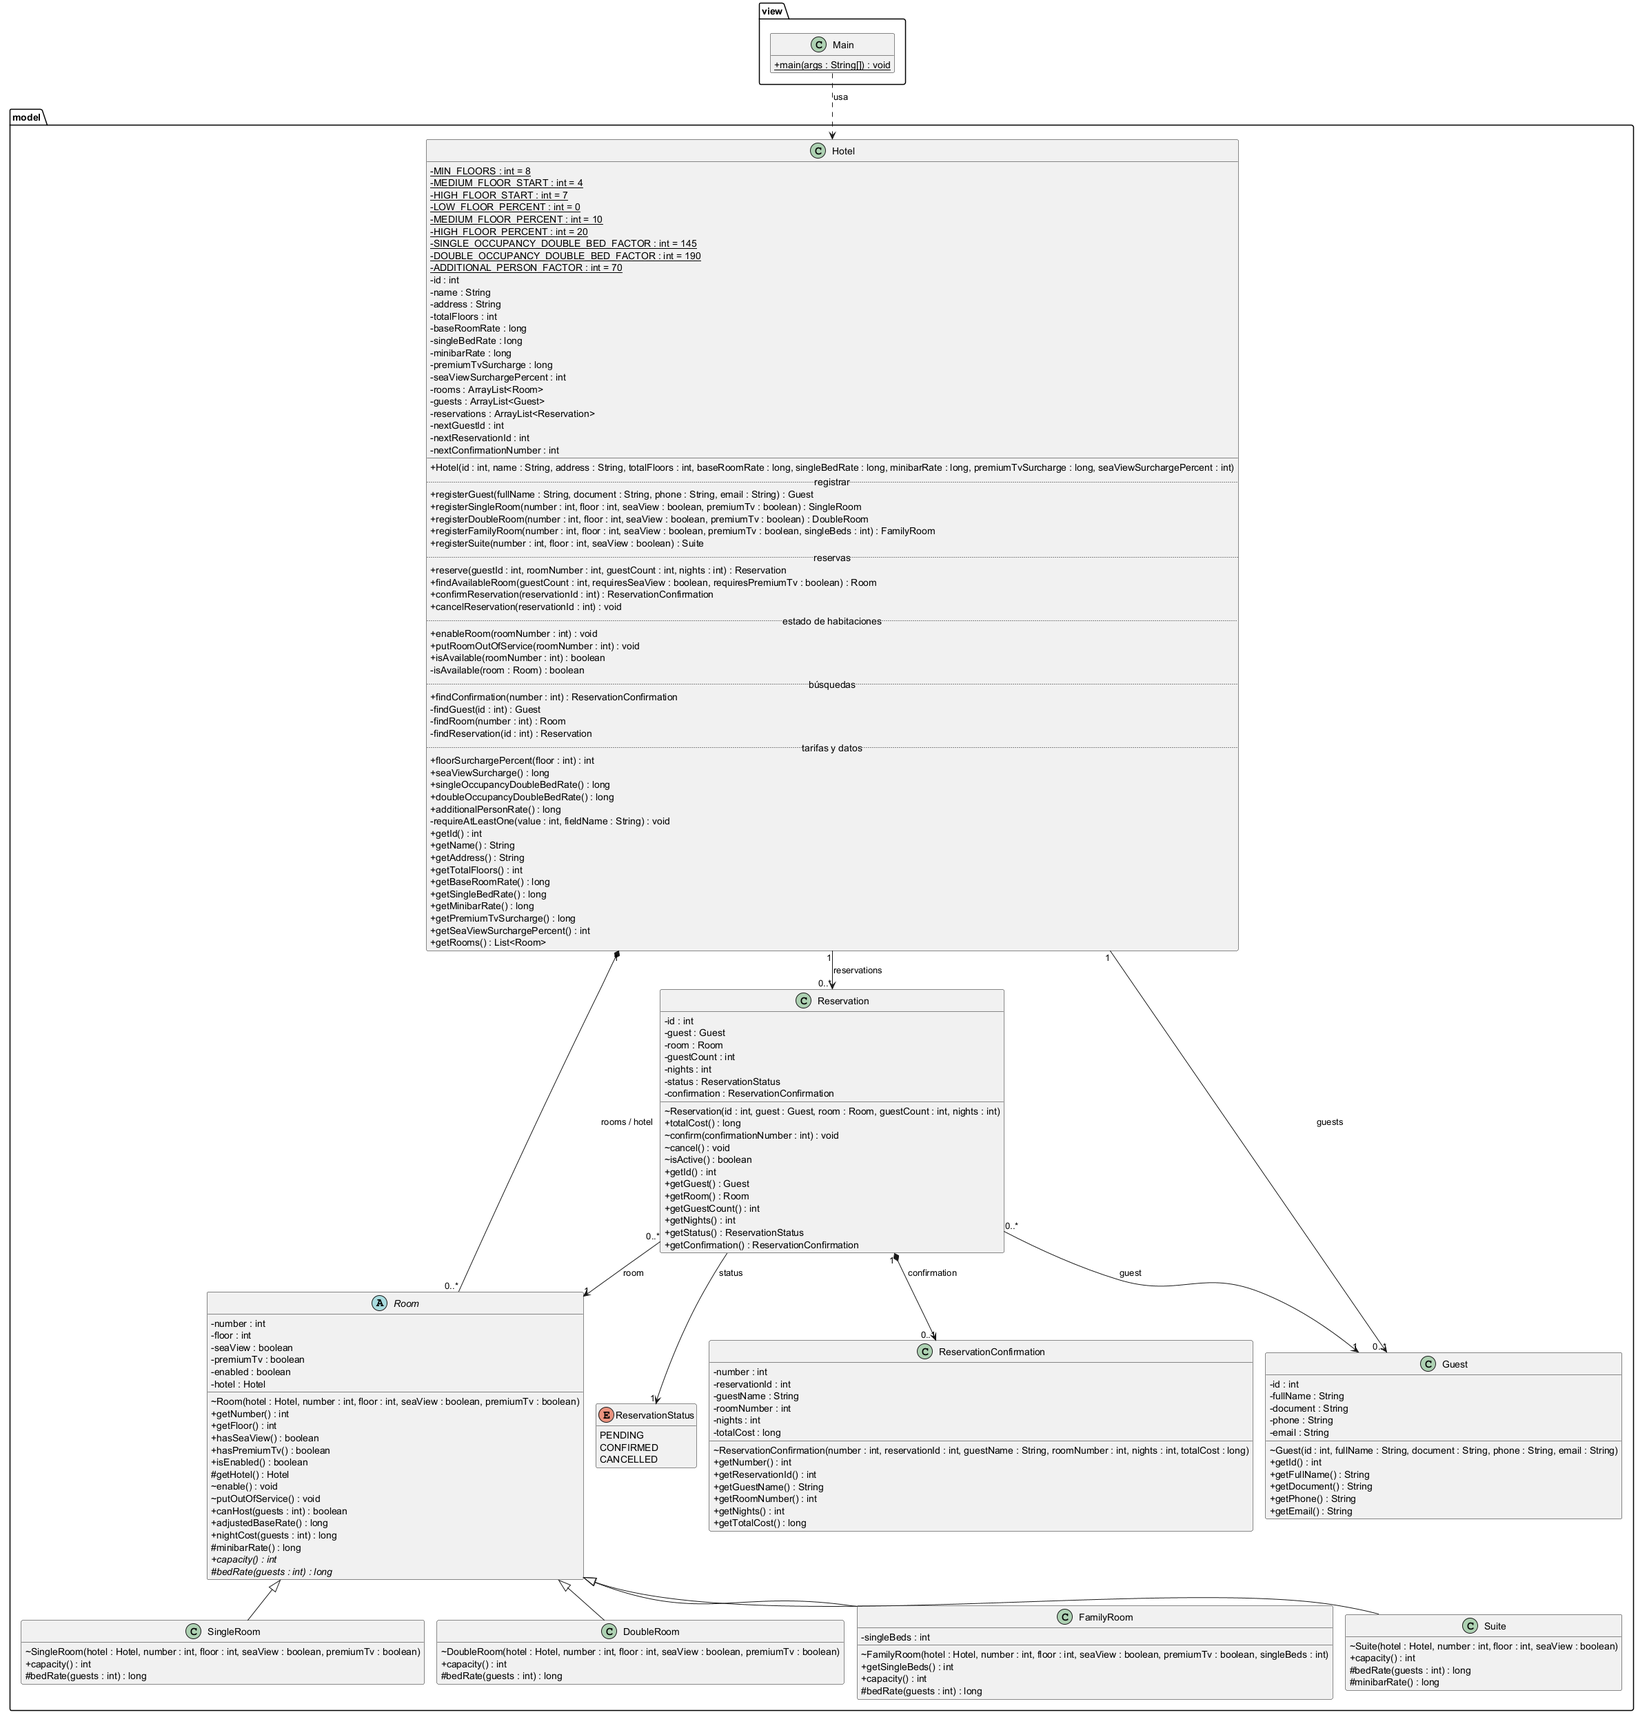
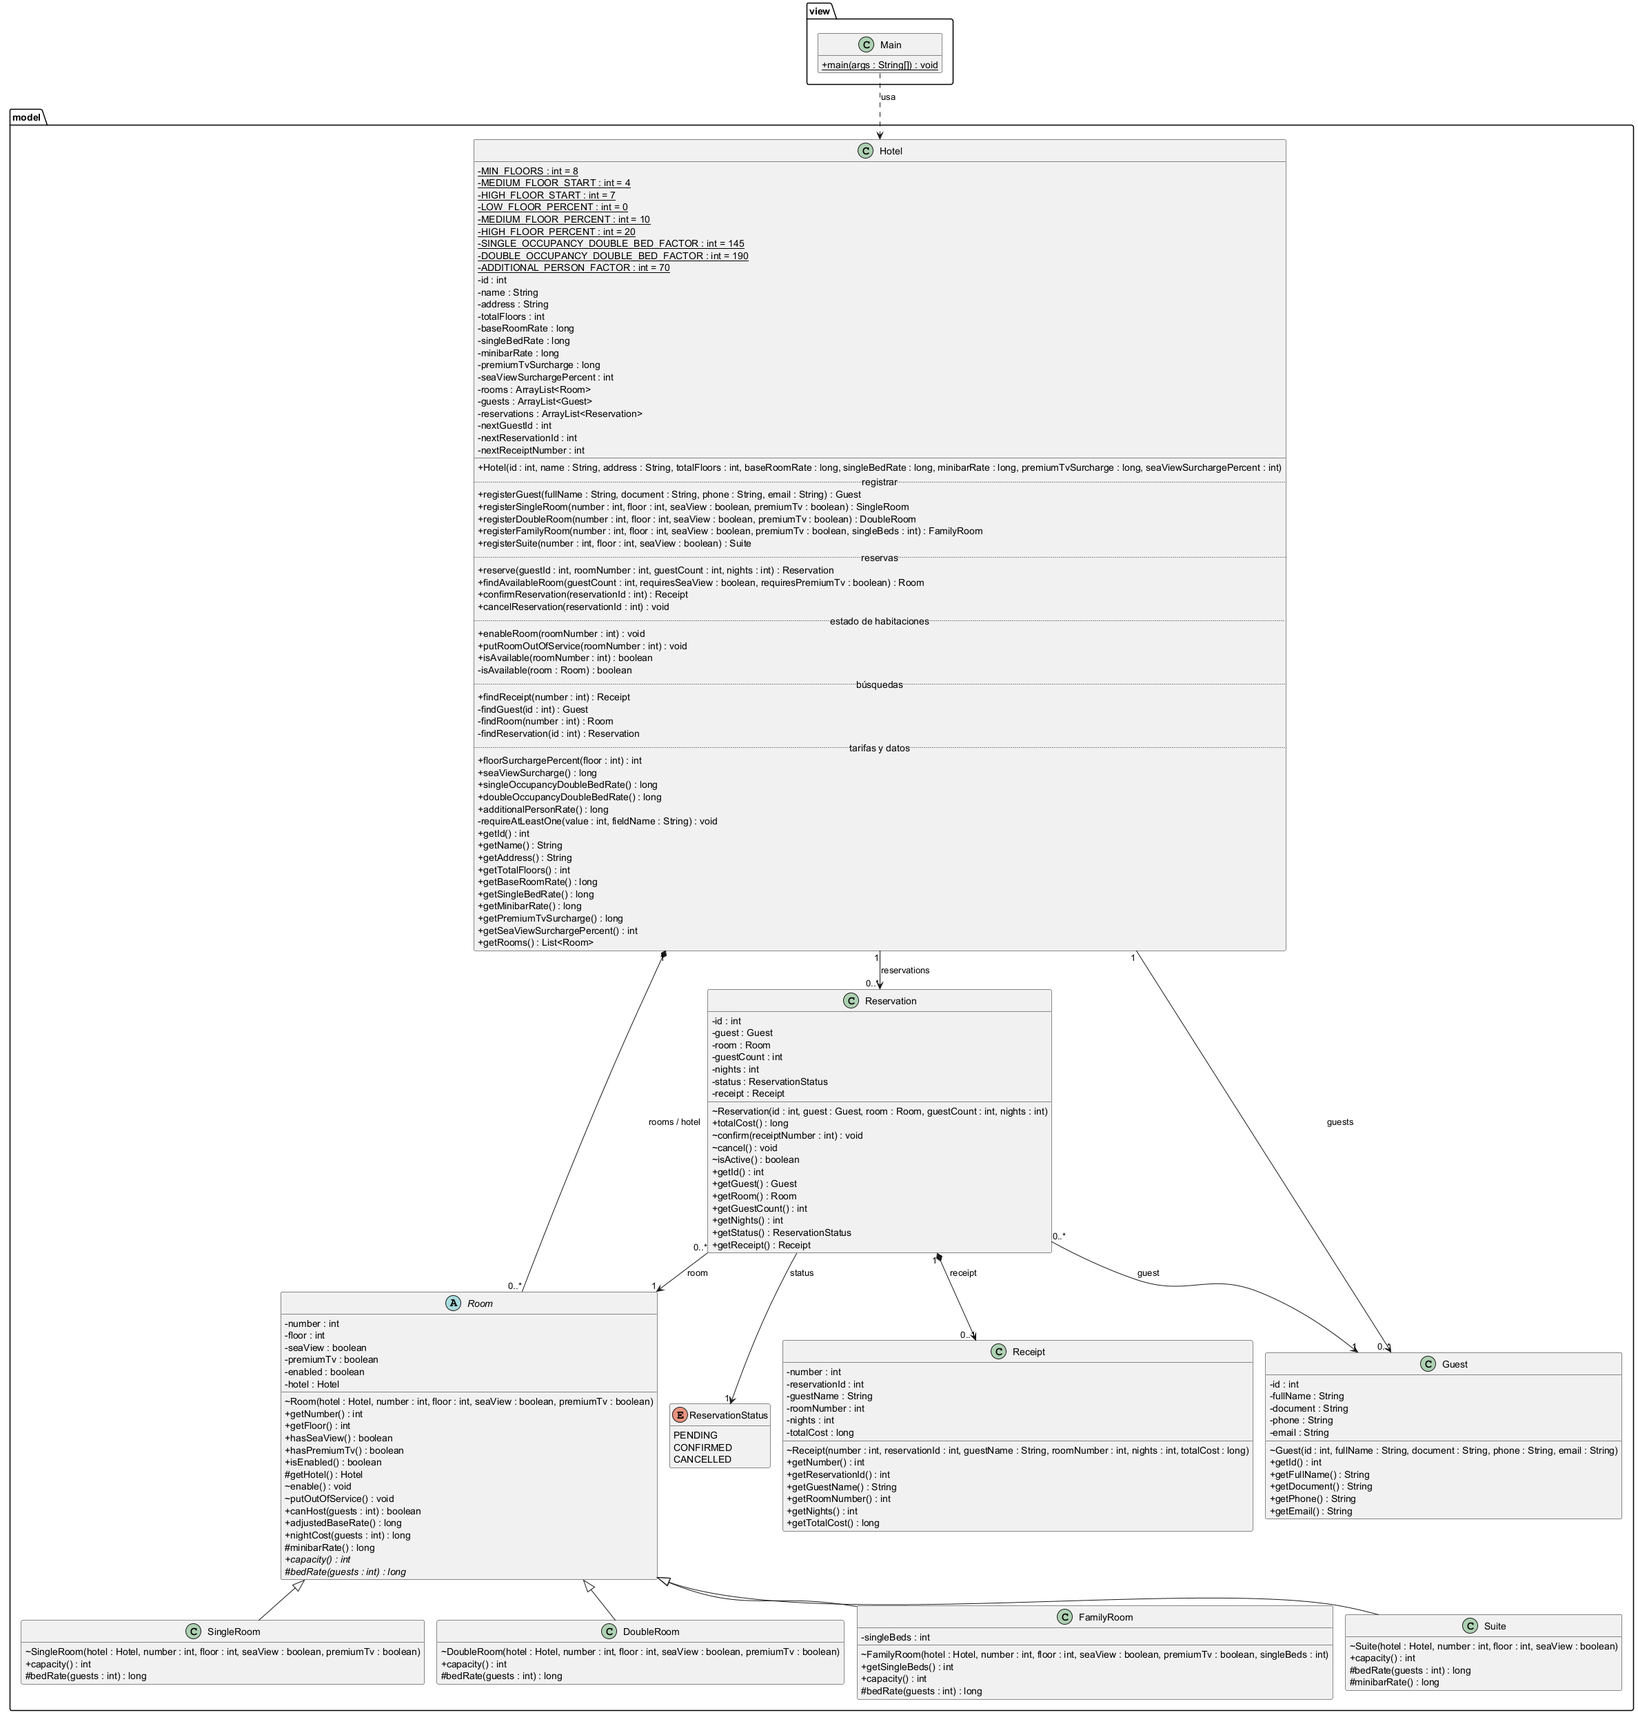
Renombrar ReservationConfirmation a Receipt
Por consejo del profesor, el comprobante se llama Receipt. También cambian
receipt, getReceipt, findReceipt, nextReceiptNumber y confirm(receiptNumber)
en el diagrama de clases y en las decisiones de diseño (D07 actualizada).

diff --git a/docs/DecisionesDiseno.md b/docs/DecisionesDiseno.md
@@ -10,7 +10,7 @@ Registro breve: decisión, regla del enunciado (R#) y justificación.
 - **D04. Hotel ↔ Room es bidireccional.** Lo exige R5 ("cada habitación conoce el hotel").
 - **D05. La disponibilidad de una habitación es derivada.** Habilitada + sin reserva pendiente o confirmada (R16). Cancelar no necesita "liberar" nada (R38).
 - **D06. Comprobante: el hotel lo busca recorriendo sus reservas.** Estrategia libre según R42. Se descarta una lista aparte para no guardar lo mismo dos veces (DRY).
-- **D07. Nombre ReservationConfirmation.** Coincide con el diccionario del enunciado.
+- **D07. Nombre Receipt.** El diccionario del enunciado traduce "comprobante de reserva" como *Reservation confirmation*, pero por consejo del profesor la clase se llama Receipt (recibo/comprobante). Los nombres relacionados siguen la clase: receipt, getReceipt, findReceipt, nextReceiptNumber, confirm(receiptNumber). confirmReservation conserva su nombre porque la acción sigue siendo confirmar la reserva.
 - **D08. Los números de habitación los decide el diseñador** (p. ej. 902 = piso 9, posición 02). El hotel verifica que no se repitan.
 
 ## Tipos de datos
@@ -24,8 +24,8 @@ Registro breve: decisión, regla del enunciado (R#) y justificación.
 - **D12. Guest: atributos `private` y fijos.** id (`int`); fullName, document, phone, email (`String`). Sin setters: ninguna regla pide modificarlos (YAGNI; Bloch, ítem 17). Es una simplificación de diseño, no una verdad del dominio. Documento y teléfono son texto: no se opera con ellos, un celular de 10 dígitos supera el máximo de `int`, un pasaporte puede tener letras y como número se perderían los ceros a la izquierda.
 - **D13. Guest lo crea solo Hotel** (GRASP Creator: tiene la lista y el contador del id). El constructor es de paquete (Bloch, ítem 15: minimizar la accesibilidad) y lanza excepción si algún texto está vacío. Hotel rechaza documentos repetidos (propuesta nuestra; el enunciado no lo exige).
 - **D14. Guest solo tiene getters públicos.** Son consultas que necesita Main desde otro paquete. No rompen el encapsulamiento: devuelven `String` (inmutable) e `int` (copia del valor), así que nadie puede modificar al huésped a través de ellos.
-- **D15. ReservationConfirmation guarda copias, no referencias.** number, reservationId, roomNumber, nights (`int`); guestName (`String`); totalCost (`long`). Todos `private` y fijos. Es una foto del momento de confirmar (Fowler, *Snapshot*): si algún día cambiaran las tarifas, el comprobante conserva lo que realmente se cobró, que es lo que necesita la contabilidad. roomNumber es `int` porque ninguno de los problemas de D12 aplica (no se desborda, no lleva letras ni ceros a la izquierda).
-- **D16. ReservationConfirmation la crea solo Reservation al confirmarse** (GRASP Creator: la contiene y tiene los datos). El constructor es de paquete y no valida: todos los datos vienen de objetos ya validados (Meyer, no redundancia; Bloch, ítem 49). Solo tiene getters públicos; Hotel usa getNumber para buscar comprobantes y Main usa el resto para mostrarlos.
+- **D15. Receipt guarda copias, no referencias.** number, reservationId, roomNumber, nights (`int`); guestName (`String`); totalCost (`long`). Todos `private` y fijos. Es una foto del momento de confirmar (Fowler, *Snapshot*): si algún día cambiaran las tarifas, el comprobante conserva lo que realmente se cobró, que es lo que necesita la contabilidad. roomNumber es `int` porque ninguno de los problemas de D12 aplica (no se desborda, no lleva letras ni ceros a la izquierda).
+- **D16. Receipt la crea solo Reservation al confirmarse** (GRASP Creator: la contiene y tiene los datos). El constructor es de paquete y no valida: todos los datos vienen de objetos ya validados (Meyer, no redundancia; Bloch, ítem 49). Solo tiene getters públicos; Hotel usa getNumber para buscar comprobantes y Main usa el resto para mostrarlos.
 - **D17. Room: atributos.** Fijos: number, floor (`int`), seaView, premiumTv (`boolean`) y hotel (`Hotel`, el lado de Room en la bidireccional D04). Cambiante: enabled (`boolean`), que se modifica con enable y putOutOfService en vez de un setter genérico (Evans, *Intention-Revealing Interfaces*; son los términos del diccionario del enunciado). No se guardan la capacidad (sale de las camas, así que es un método abstracto) ni la disponibilidad (D05). El piso no se deriva del número: "902 = piso 9" es una convención nuestra (D08), no una regla del dominio, y "el primer dígito" falla desde el piso 10. La TV premium es una característica fija de la habitación (la solicitud del huésped "no modifica las características"); la solicitud es solo un criterio de búsqueda de Hotel.
 - **D18. Creación de habitaciones.** Main crea el hotel y después le pide registrar cada habitación, una por una (Parte 2B: "cree y registre las habitaciones"). Hotel revisa que el número no esté repetido, crea la subclase pasándose a sí mismo y la agrega a su lista al final. El constructor de Room (de paquete) valida número > 0 (regla nuestra) y piso entre 1 y el total. Los constructores no se heredan: cada subclase llama primero al de Room y luego valida solo lo suyo (FamilyRoom: de 2 a 4 camas sencillas; Suite: uno de los dos pisos superiores, y le pasa premiumTv = verdadero a Room). Cada regla se valida en un solo lugar (Meyer, no redundancia; DRY).
 - **D19. Las listas del hotel son `ArrayList`** (habitaciones, huéspedes y reservas). El dominio no fija un máximo; un arreglo fijo obligaría a inventarlo y a validar "lleno".
@@ -42,17 +42,17 @@ Registro breve: decisión, regla del enunciado (R#) y justificación.
 
   **Polimorfismo:** nightCost hace siempre la misma pregunta (bedRate, minibarRate) y cada habitación la responde por sí misma; las cuatro subclases lo usan, aunque Single y Suite den siempre la misma respuesta. Que el resultado cambie con los huéspedes es otra cosa: solo Double y Family usan el parámetro; Single y Suite lo reciben igual porque al sobrescribir deben respetar la firma de Room. La pregunta "¿más de 6?" dentro de FamilyRoom no rompe la regla de no usar if por tipo: es sobre huéspedes, no sobre la subclase. bedRate nunca se llama si canHost respondió falso (D21): una familiar con 2 sencillas (capacidad 6) rechaza a 7 huéspedes antes de calcular precio. Las tarifas derivadas (cama doble, persona adicional) se piden al hotel mediante getHotel (D20).
 - **D23. Reservation.**
-  - **Atributos (`private`).** Fijos: id (`int`), guest (`Guest`), room (`Room`), guestCount (`int`), nights (`int`). Cambiantes: status (`ReservationStatus`, nace en PENDING, sin setter, D11) y confirmation (`ReservationConfirmation`, vacío hasta confirmar, se llena una sola vez, D16). No guarda el costo (D02) ni "ocupada" (D05).
+  - **Atributos (`private`).** Fijos: id (`int`), guest (`Guest`), room (`Room`), guestCount (`int`), nights (`int`). Cambiantes: status (`ReservationStatus`, nace en PENDING, sin setter, D11) y receipt (`Receipt`, vacío hasta confirmar, se llena una sola vez, D16). No guarda el costo (D02) ni "ocupada" (D05).
   - **Constructor (de paquete), lo crea solo Hotel** (Larman, *Creator*: guarda la lista y el contador del id). Antes de llamarlo, Hotel valida lo que necesita de sus listas y todos los números de la solicitud: huésped registrado, habitación habilitada y sin reserva activa, al menos 1 huésped (D21) y al menos 1 noche (decisión de Luis: *Fail Fast*, Shore 2004; todos los números de la solicitud se revisan en la misma puerta). El constructor solo verifica room.canHost(guestCount). Si algo falla, se lanza la excepción y Hotel no agrega nada a la lista ni avanza el contador. La garantía depende de que el constructor no sea público: nadie fuera del paquete puede crear una reserva sin pasar por Hotel. La revisión "habitación sin otra reserva activa" no puede ir en el constructor: la reserva no conoce a las demás (Larman, *Information Expert*).
   - **totalCost() → `long`, público.** Consulta: room.nightCost(guestCount) × nights. Vive aquí porque la reserva es la única que tiene juntos habitación, huéspedes y noches (*Information Expert*). Se puede llamar en cualquier momento después de creada, porque no cambia nada (Meyer, *Command-Query Separation*). Una reserva cancelada sigue respondiéndolo como dato histórico. Ojo: se recalcula con las tarifas actuales; da siempre lo mismo solo porque las tarifas son fijas (D01). Lo realmente cobrado se conserva en el comprobante (D15).
-  - **confirm(int confirmationNumber) → `void`, de paquete.** Solo si está PENDING; si está CONFIRMED o CANCELLED, excepción (un único comprobante; una cancelada no se confirma). Pasa a CONFIRMED y crea su comprobante con copias: número recibido, su id, nombre del huésped, número de habitación, noches y totalCost(). El número lo entrega Hotel con un contador de comprobantes que solo avanza si la confirmación sale bien (decisión de Luis: numeración consecutiva sin saltos, sin repetir el id de la reserva, mismo patrón que D13).
+  - **confirm(int receiptNumber) → `void`, de paquete.** Solo si está PENDING; si está CONFIRMED o CANCELLED, excepción (un único comprobante; una cancelada no se confirma). Pasa a CONFIRMED y crea su comprobante con copias: número recibido, su id, nombre del huésped, número de habitación, noches y totalCost(). El número lo entrega Hotel con un contador de comprobantes que solo avanza si la confirmación sale bien (decisión de Luis: numeración consecutiva sin saltos, sin repetir el id de la reserva, mismo patrón que D13).
   - **cancel() → `void`, de paquete.** Si está PENDING o CONFIRMED, pasa a CANCELLED; si ya está CANCELLED, excepción. No borra el comprobante (lo exige el enunciado) ni libera la habitación (D05: no hay nada que liberar).
   - **isActive() → `boolean`, de paquete.** Verdadero si está PENDING o CONFIRMED. Lo usa Hotel para deducir la disponibilidad: disponible = habilitada (dato de la habitación) Y sin reservas activas (dato que solo Hotel puede reunir).
-  - **Getters públicos:** getId, getGuest, getRoom, getGuestCount, getNights, getStatus, getConfirmation (vacío si nunca se confirmó). Hotel usa getConfirmation para buscar comprobantes por número (D06); Main usa el resto para mostrar.
+  - **Getters públicos:** getId, getGuest, getRoom, getGuestCount, getNights, getStatus, getReceipt (vacío si nunca se confirmó). Hotel usa getReceipt para buscar comprobantes por número (D06); Main usa el resto para mostrar.
   - **Main siempre pasa por Hotel** para reservar, confirmar y cancelar (Larman, *Controller*). Las transiciones de estado las controla la reserva, no Hotel (D11).
 - **D24. Hotel: atributos (`private`).**
   - **Fijos.** Identidad: id (`int`), name, address (`String`), totalFloors (`int`, ≥ 8). Tarifas (`long`, D09): baseRoomRate, singleBedRate, minibarRate (> 0, enunciado sección 1), premiumTvSurcharge (> 0, A1); seaViewSurchargePercent (`int`, 30 = 30 %, > 0, A1).
-  - **Cambiantes.** Listas (`ArrayList`, D19): rooms, guests, reservations. Contadores (`int`), que avanzan solo si la creación sale bien: nextGuestId (D13), nextReservationId y nextConfirmationNumber (D23).
+  - **Cambiantes.** Listas (`ArrayList`, D19): rooms, guests, reservations. Contadores (`int`), que avanzan solo si la creación sale bien: nextGuestId (D13), nextReservationId y nextReceiptNumber (D23).
   - **No se guardan.** Las tarifas derivadas (cama doble con 1 y con 2 personas, persona adicional) se calculan desde singleBedRate: guardarlas sería un atributo derivado, que el enunciado prohíbe. Los comprobantes no van en lista aparte (D06).
   - **Constantes (decisión de Luis).** Los porcentajes por piso (0 % pisos 1–3, 10 % pisos 4–6, 20 % piso 7 en adelante) y sus límites son constantes de la clase en `UPPER_SNAKE_CASE`: el enunciado los da como regla del modelo tarifario, iguales para cualquier hotel, no como algo que cada hotel elija. Los factores de las tarifas derivadas (145, 190 y 70 sobre 100, D09) también son constantes.
   - **Tarifas derivadas:** las calcula Hotel con métodos (cama doble con 1 y con 2 personas, persona adicional, recargo por vista), porque tiene la tarifa de cama sencilla, la tarifa base y el porcentaje (Larman, *Information Expert*).
@@ -64,7 +64,7 @@ Registro breve: decisión, regla del enunciado (R#) y justificación.
   - **registerSingleRoom, registerDoubleRoom, registerFamilyRoom (+ singleBeds), registerSuite (sin premiumTv) → la habitación creada.** Hotel rechaza números repetidos (D08; una habitación no conoce a las demás), crea la subclase pasándose a sí mismo (D04) y la agrega. Validan los constructores (D18): Room número > 0 y piso entre 1 y el total; FamilyRoom 2–4 sencillas; Suite piso superior y TV premium siempre. Sin contador: el número lo decide el diseñador. Cuatro métodos y no uno para no usar if por tipo. Toda habitación nace habilitada (propuesta de Claude). Devuelven el objeto porque Main debe mostrar tarifas (Parte 2B, punto 4); no rompe el encapsulamiento: enable y putOutOfService son de paquete.
 - **D29. Hotel: métodos de reservas (públicos, los llama Main).**
   - **reserve(guestId, roomNumber, guestCount, nights) → Reservation.** Flujo de D27. Devuelve la reserva: Main necesita su id y su costo.
-  - **confirmReservation(reservationId) → ReservationConfirmation.** Busca la reserva (excepción si no existe), le ordena confirm(nextConfirmationNumber), avanza el contador solo si sale bien y devuelve el comprobante para mostrarlo.
+  - **confirmReservation(reservationId) → Receipt.** Busca la reserva (excepción si no existe), le ordena confirm(nextReceiptNumber), avanza el contador solo si sale bien y devuelve el comprobante para mostrarlo.
   - **cancelReservation(reservationId) → void.** Busca la reserva (excepción si no existe) y le ordena cancel().
   - **findAvailableRoom(guestCount, requiresSeaView, requiresPremiumTv) → Room.** Reserva por perfil (A2). Valida guestCount ≥ 1 antes de buscar (D21). "Requiere" verdadero = debe tenerlo; falso = da igual (la solicitud no modifica las características). Recorre las habitaciones y devuelve la primera que cumpla canHost, vista y TV pedidas, y disponibilidad. No reserva: Main luego llama reserve con ese número, así hay una sola forma de crear reservas. **Si no hay ninguna, lanza excepción** (decisión de Luis, por simpleza y coherencia con el resto del modelo). Se descartó devolver `null` (Bloch, ítems 54–55; Hoare) y devolver una lista (más flexible, pero cambia firma y nombre).
 - **D30. Hotel: estado de las habitaciones.**
@@ -72,7 +72,7 @@ Registro breve: decisión, regla del enunciado (R#) y justificación.
   - **putRoomOutOfService(roomNumber) → void, público.** Busca la habitación (excepción si no existe). **Si tiene una reserva activa, lanza excepción** (decisión de Luis, cierra A3): hay que cancelarla primero. Así nunca existe una reserva activa sobre una habitación fuera de servicio, y confirm no necesita revisar la habitación. Si no, le ordena putOutOfService().
   - **isAvailable(roomNumber) → boolean, público.** Busca la habitación (excepción si no existe) y delega en **isAvailable(room) → boolean, privado**: habilitada Y sin reservas activas (D05). La versión privada la usan reserve, findAvailableRoom y putRoomOutOfService, que ya tienen la habitación; evita buscarla otra vez (sobrecarga).
 - **D31. Hotel: búsquedas.**
-  - **findConfirmation(number) → ReservationConfirmation, público.** Main consulta un comprobante por número. Recorre las reservas, pide getConfirmation y compara el número (D06); encuentra también los de reservas canceladas después de confirmarse. Excepción si no existe.
+  - **findReceipt(number) → Receipt, público.** Main consulta un comprobante por número. Recorre las reservas, pide getReceipt y compara el número (D06); encuentra también los de reservas canceladas después de confirmarse. Excepción si no existe.
   - **findGuest(id), findRoom(number), findReservation(id), privados.** Los usan los métodos públicos de Hotel para no repetir el recorrido (DRY). Privados porque Main ya recibe los objetos que necesita al registrar, reservar o confirmar (Bloch, ítem 15). Excepción si no existe.
 - **D32. Excepciones estándar de todo el modelo (Bloch, ítem 72).** `IllegalArgumentException` cuando el dato no sirve (noches 0, piso fuera de rango, id inexistente, documento o número repetido, textos vacíos). `IllegalStateException` cuando el dato está bien pero el estado del objeto no lo permite (confirmar una cancelada o confirmada, cancelar dos veces, mantenimiento con reserva activa, reservar una habitación no disponible, ninguna habitación disponible para el perfil). Regla: ¿el problema es lo que me pidieron (argumento) o el momento en que me lo pidieron (estado)?
 - **D33. Hotel: tarifas y datos.**
